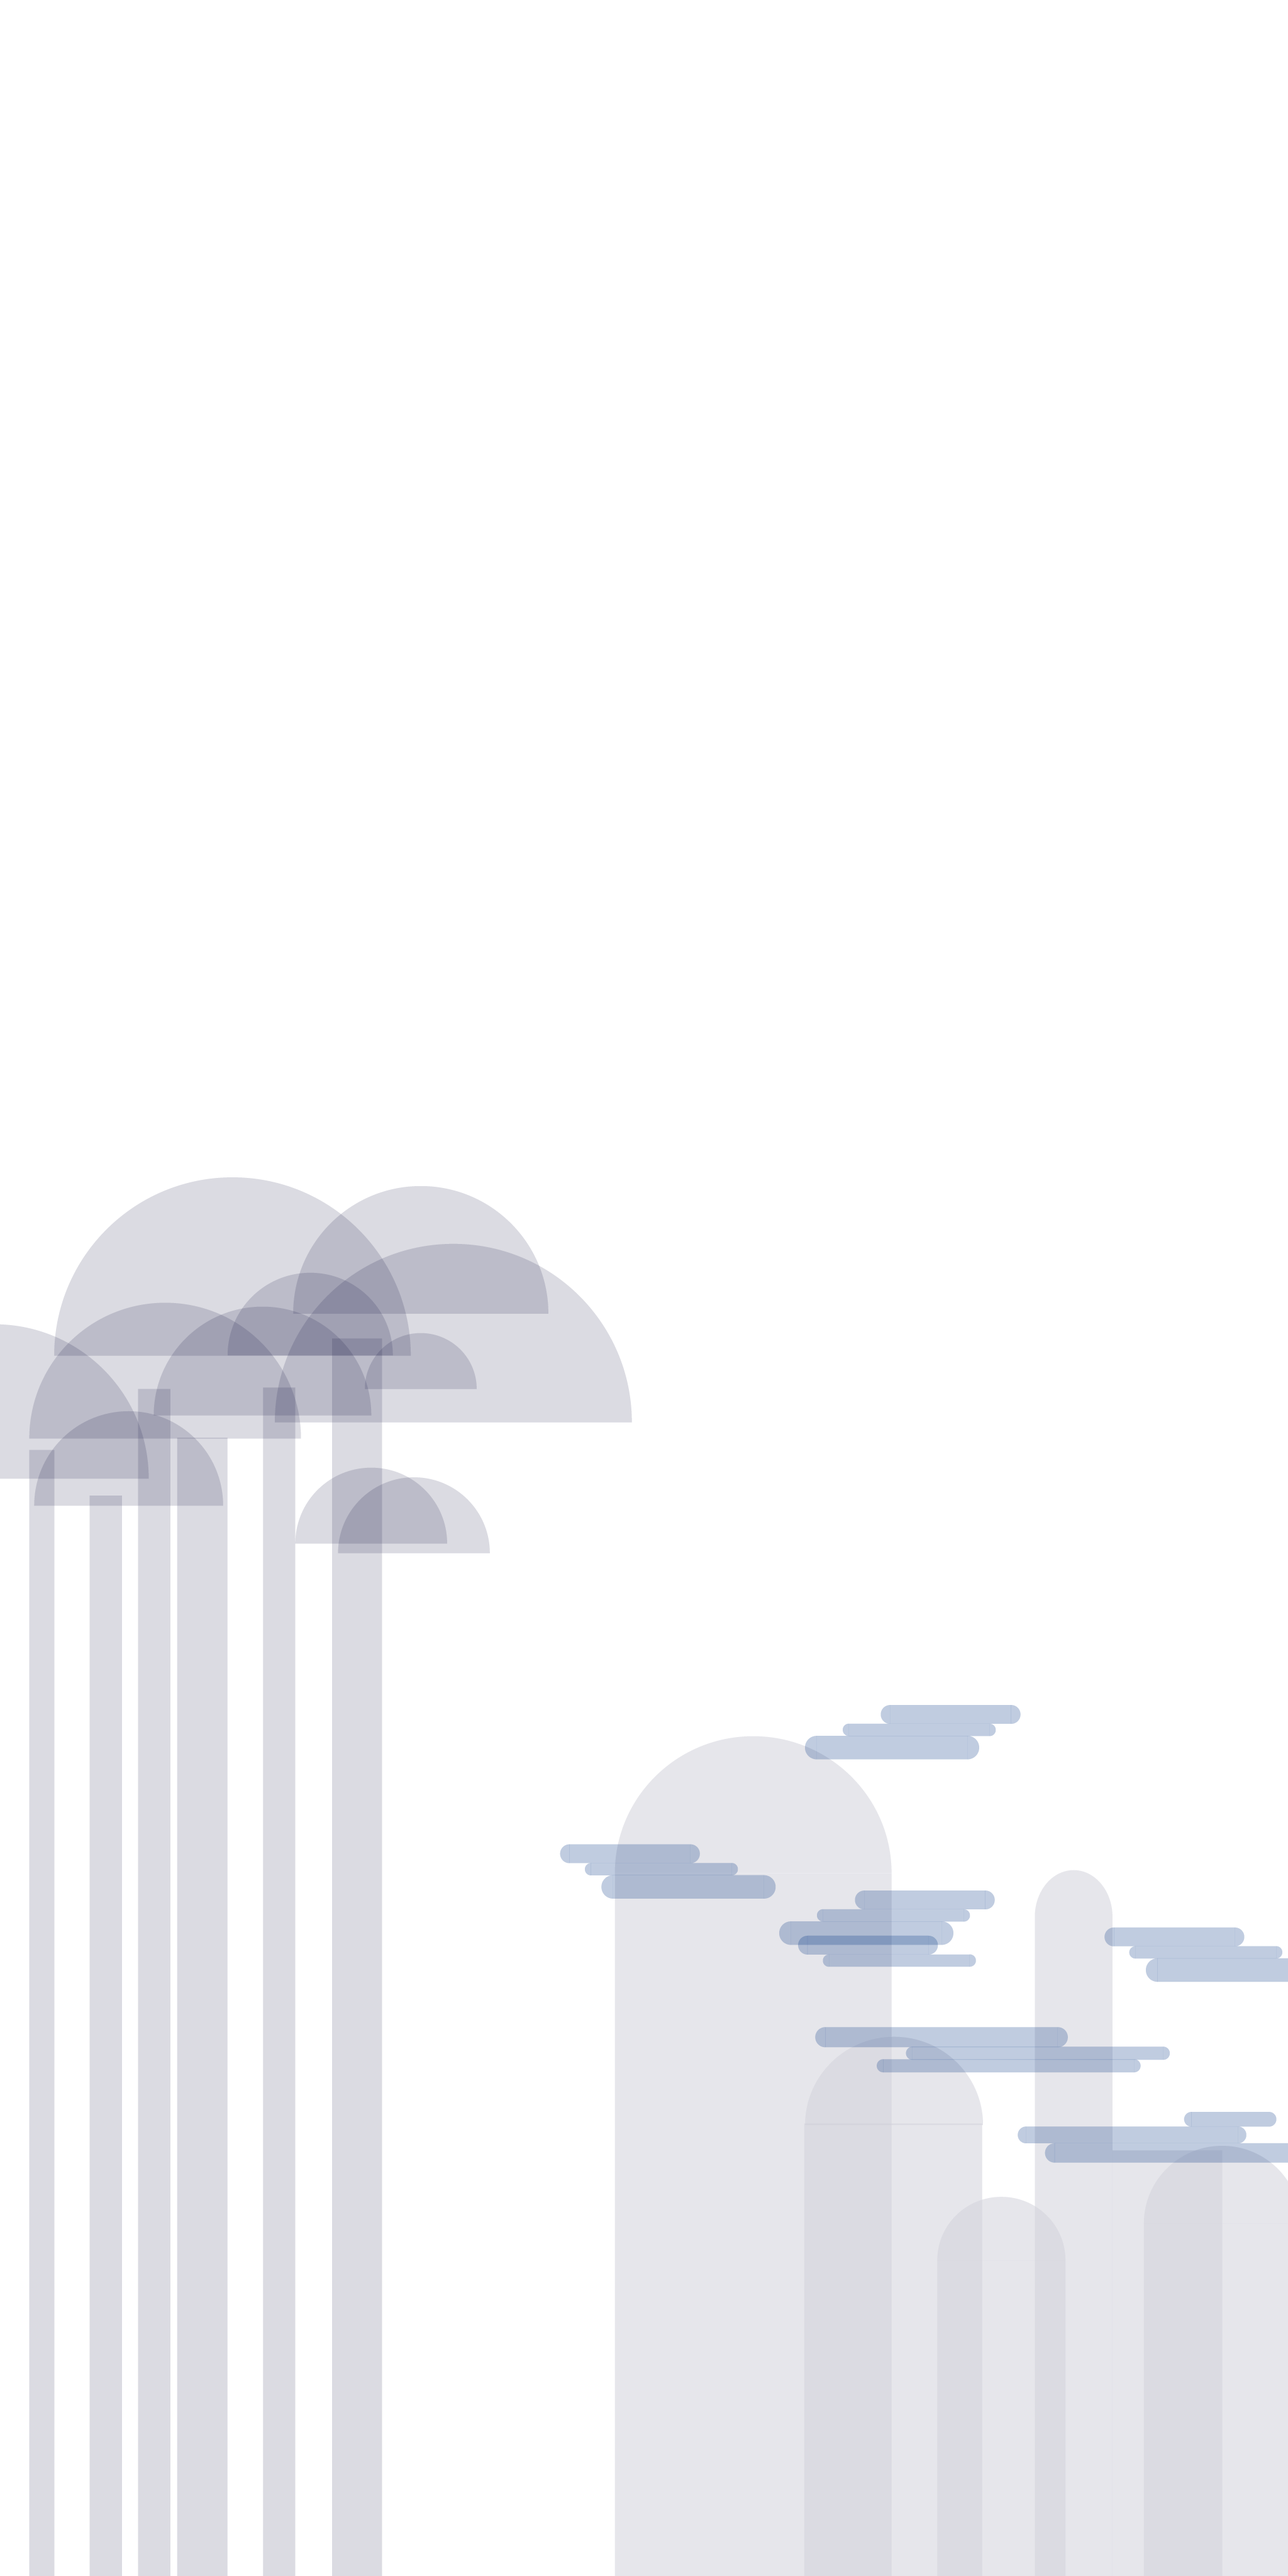
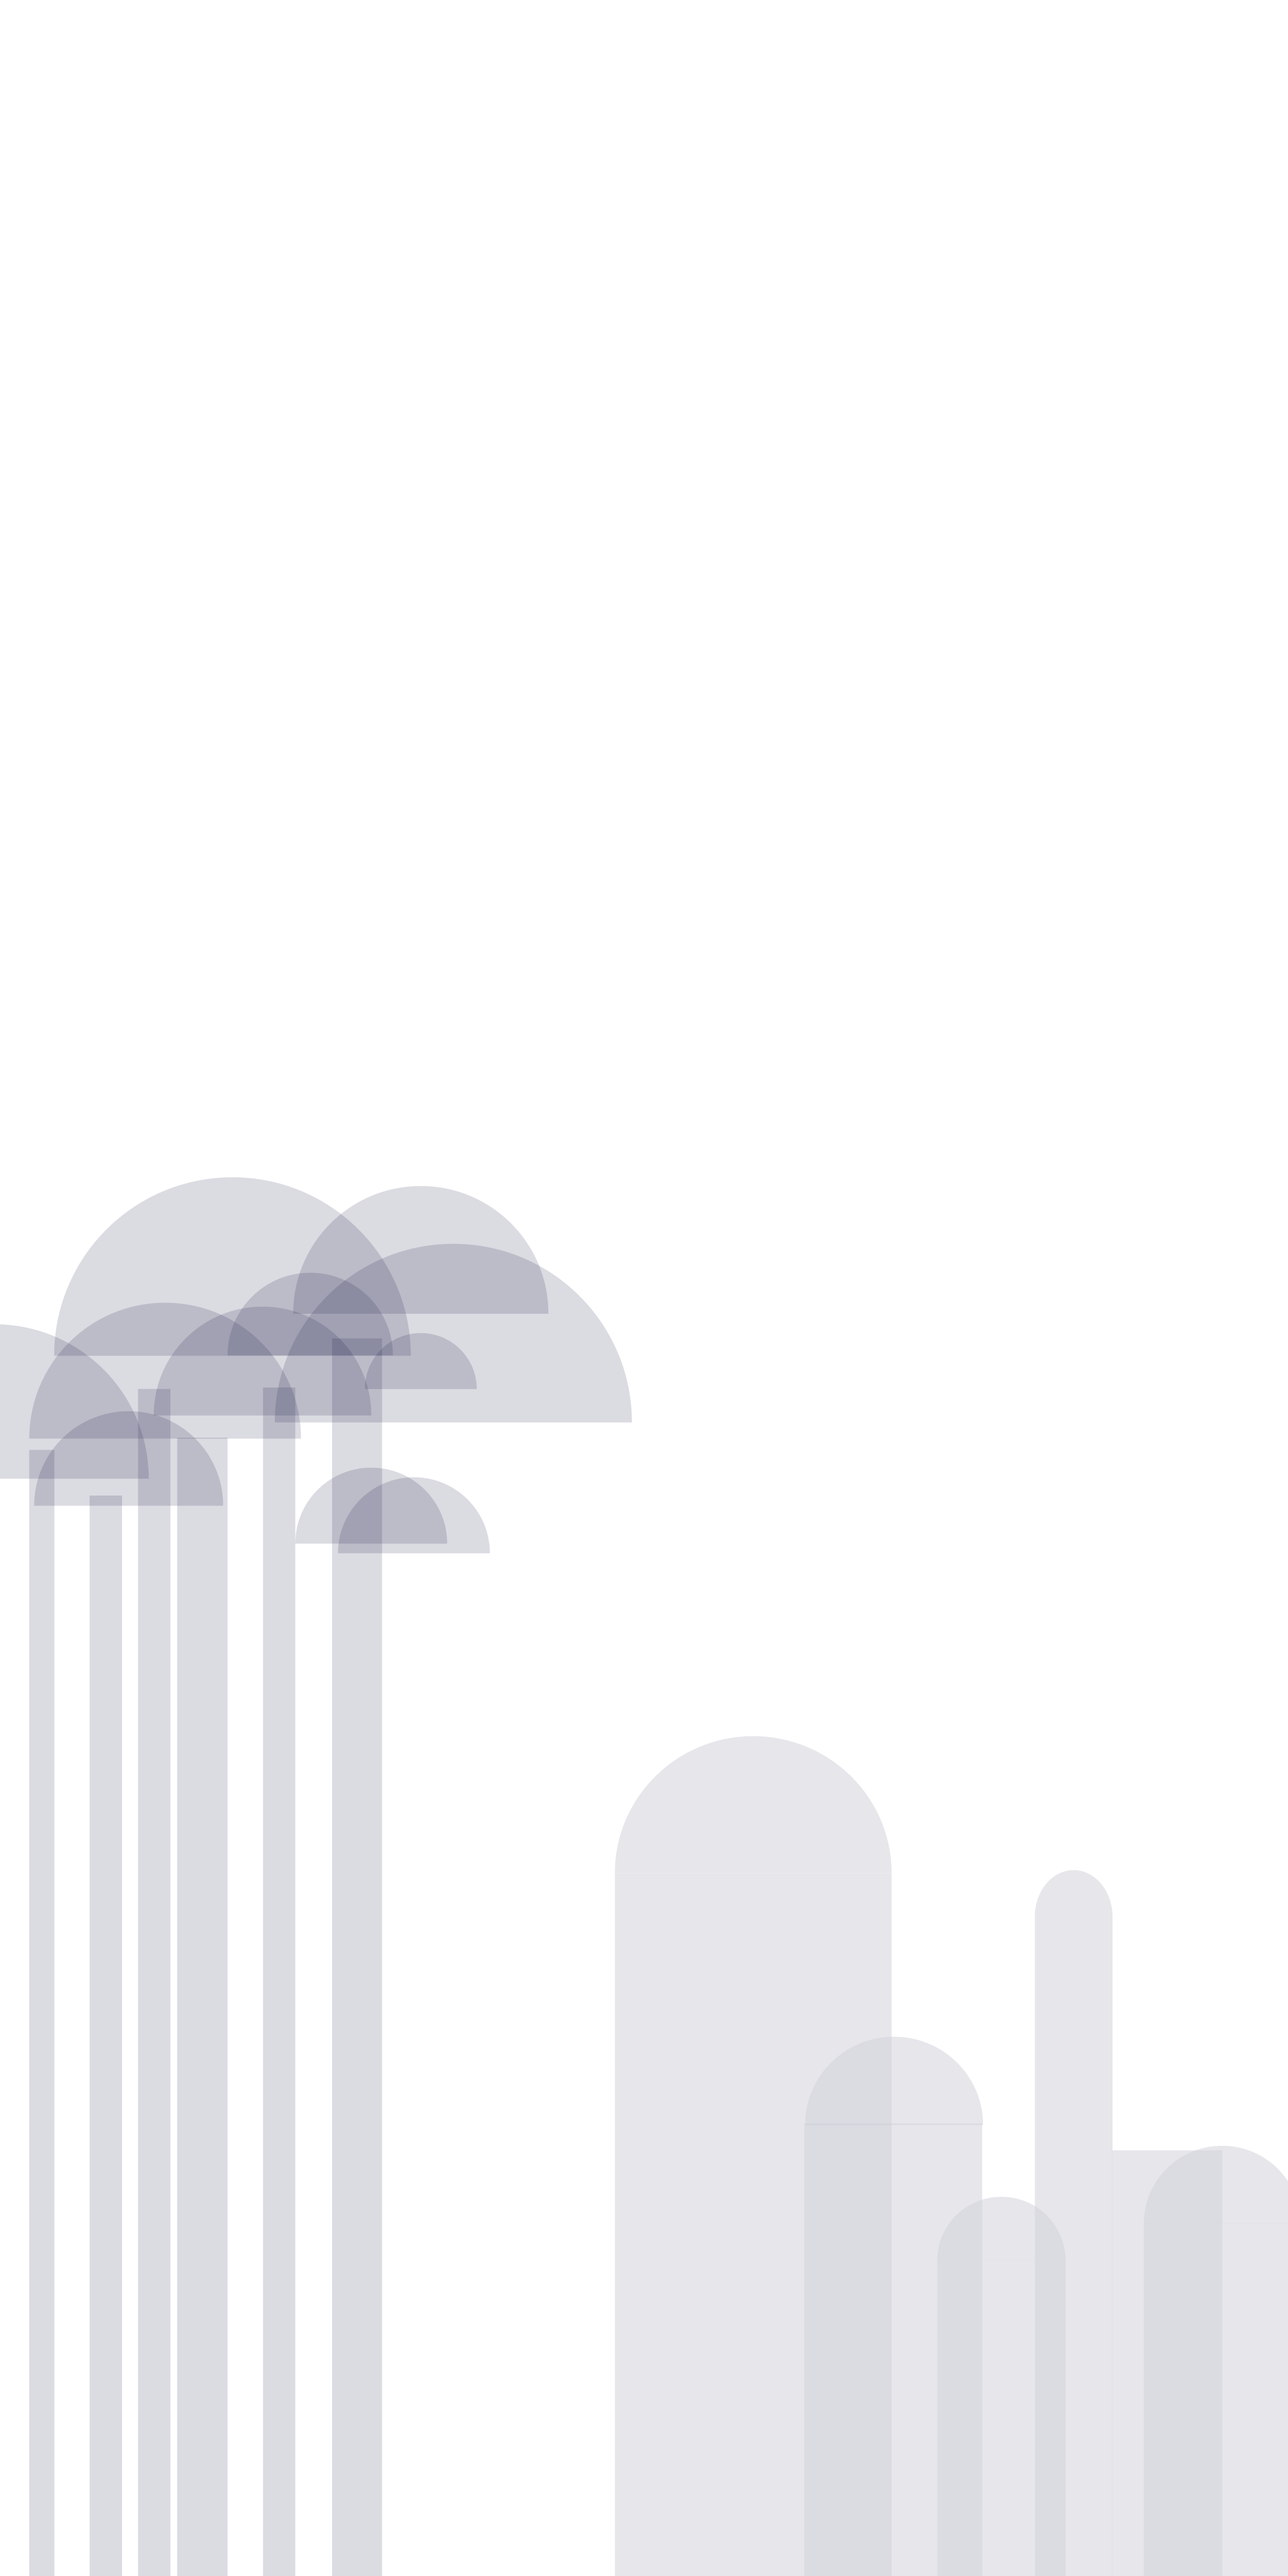
Transition

Changed region(s): [[0.4375, 0.7188, 1.0, 0.8438], [0.625, 0.6562, 0.7812, 0.6875]]

diff --git a/index.js b/index.js
@@ -14,12 +14,12 @@ var fragment = Bard.Fragment.build("StartFragment", {
     /**
      * SOUNDS
      */
-    var forest = this.soundManager.load("forest", "./examples/sounds/forest_ambiance.mp3");
-    var rocketLaunch = this.soundManager.load("forest", "./examples/sounds/rocket_launch_start.mp3");
-    forest.on("load", () => {
-      console.log("Load"),
-      forest.start();
-    })
+    // var forest = this.soundManager.load("forest", "./examples/sounds/forest_ambiance.mp3");
+    // var rocketLaunch = this.soundManager.load("forest", "./examples/sounds/rocket_launch_start.mp3");
+    // forest.on("load", () => {
+    //   console.log("Load"),
+    //   forest.start();
+    // })
 
     /**
      * ELEMENTS
@@ -42,6 +42,8 @@ var fragment = Bard.Fragment.build("StartFragment", {
     );
 
     
+
+    
     var text = this.addElement(
       new Bard.TextElement({
         nodes: [
@@ -54,10 +56,23 @@ var fragment = Bard.Fragment.build("StartFragment", {
         color: '#ffffff'
       })
     );
+    this.planes = []
 
     this.plane2 = this.addElement(new Bard.PlaneElement({imgUrls : ['./src/assets/scene1-plan3.png'], alpha: true, z:-20}));
+    this.planes.push(this.plane2)
     this.plane3 = this.addElement(new Bard.PlaneElement({imgUrls : ['./src/assets/scene1-plan2.png'], alpha: true, z:-5}));
+    this.planes.push(this.plane3)
     this.plane = this.addElement(new Bard.PlaneElement({imgUrls : ['./src/assets/scene1-plan1.png'], alpha: true, z:0}));
+    this.planes.push(this.plane)
+
+    this.clouds = []
+
+    for (let i = 1; i < 5; i++) {
+      let cloud = this.addElement(new Bard.PlaneElement({imgUrls : ['./src/assets/nuage'+i+'.png'], alpha: true, z: -6*(i)}));
+      cloud.x = (Math.random()*60 ) -30
+      this.clouds.push(cloud)
+      this.planes.push(cloud)
+    }
 
     /**
      * ACTIONS
@@ -69,13 +84,72 @@ var fragment = Bard.Fragment.build("StartFragment", {
           var easeTime = Bard.Easing.easeInQeight(advancement)
           this.rocket.mesh.position.x = (Math.sin(easeTime) * 30.)
           this.rocket.mesh.position.y = easeTime * 200.
- 
-          this.book.scene.camera.rotation.x = Math.cos(time*(Math.PI*100))/100
-          this.book.scene.camera.rotation.y = Math.cos(time*(Math.PI*100))/200
+          this.rocket.mesh.rotation.z = -(Math.sin(easeTime))
+          
+          // this.book.scene.camera.rotation.x = Math.cos(time*(Math.PI*100))/100
+          // this.book.scene.camera.rotation.y = Math.cos(time*(Math.PI*100))/200
+          
+        },
+        onFinish: () => {
+          this.fragmentTransitionOut()
         }
       }))
-      rocketLaunch.start();
+     
     })
+
+    this.addAction("transitionOut", (e) => {
+     for (let i = 0; i < this.planes.length; i++) {
+     
+      this.planes[i].anims.push(new Bard.Animation({
+        duration: 2000,
+        onProgress: (advancement, time) => {
+          var easeTime = Bard.Easing.easeInQeight(advancement)
+          // this.planes[i].mesh.position.x = ((advancement*(i+1))*80)+(this.book.scene.camera.top/2.)
+          this.planes[i].mesh.scale.x = ((easeTime*(i+1))*(100+(20*i)))+this.planes[i].width
+          this.planes[i].mesh.scale.y = ((easeTime*(i+1))*(100+(20*i)))+this.planes[i].height
+
+          if(advancement > 0.5) {
+            this.planes[i].mesh.material.uniforms.opacity.value = 1-((advancement-0.5)*2.)
+          }
+        },
+        onFinish:() => {
+          this.fragmentTransitionIn()
+        }
+      }))
+      }
+    })
+
+    this.planets = []
+
+
+    for (let i = 1; i < 25; i++) {
+      let planet = this.addElement(new Bard.PlaneElement({imgUrls : ['./src/assets/planets/planete'+i+'.png'], alpha: true, z: -6*(i), opacity:"0."}));
+      this.planets.push(planet)
+      
+    }
+
+    this.addAction("transitionIn", (e) => {
+      for (let i = 0; i < this.planets.length; i++) {
+      
+        setTimeout(()=> {
+          this.planets[i].anims.push(new Bard.Animation({
+            duration: 1000,
+            onProgress: (advancement, time) => {
+              var easeTime = Bard.Easing.easeInQeight(advancement)
+
+              this.planets[i].mesh.scale.set(this.planets[i].width+(50-(50*easeTime)),this.planets[i].height+(50-(50*easeTime)),1 )
+                this.planets[i].mesh.material.uniforms.opacity.value = ((advancement))
+             
+            },
+            onFinish:() => {
+            }
+          }))
+        }, i*20)
+       
+       }
+     })
+ 
+    
 
     this.addAction("next",  e => text.next())
 
@@ -87,6 +161,23 @@ var fragment = Bard.Fragment.build("StartFragment", {
     this.afterStart();  
   },
 
+  fragmentTransitionOut: function() {
+    if(!this.fragmentEnd) {
+      this.fragmentEnd = true
+      
+      this.executeAction('transitionOut')
+
+    }
+  },
+
+  fragmentTransitionIn: function() {
+    if(!this.fragmentNew) {
+      this.fragmentNew = true
+
+      this.executeAction('transitionIn')
+    }
+  },
+
   render: function() {
     this.beforeRender();
     
@@ -96,6 +187,13 @@ var fragment = Bard.Fragment.build("StartFragment", {
       }
     }
 
+    if(this.clouds.length ) {
+      for (let i = 0; i < this.clouds.length; i++) {
+        if(this.clouds[i].mesh) {
+          this.clouds[i].mesh.position.x = (Math.sin(this.clock.elapsed/(2000.*((i*0.5)+1)))*40)+this.clouds[i].x
+        }
+      }
+    }
     this.afterRender();
   },
 

diff --git a/src/elements/Plane/Plane.js b/src/elements/Plane/Plane.js
@@ -16,6 +16,7 @@ let frag = `
 uniform sampler2D texture;
 uniform vec2 textureRes;
 uniform vec2 resolution;
+uniform float opacity; 
 
  varying vec2 vUv;
  
@@ -30,7 +31,7 @@ uniform vec2 resolution;
      }
 
      
-     gl_FragColor = color;
+     gl_FragColor = vec4(color.rgb, color.a*opacity);
  }`
  
 class Plane extends Mesh {
@@ -40,10 +41,15 @@ class Plane extends Mesh {
         this.imgUrls = params.imgUrls
         this.videoUrls = params.videoUrls
         this.alpha = params.alpha
+        this.z = params.z
+        this.position = {
+            x: null,
+            y: null,
+            z: params.z
+        }
 
-        this.on("load", ()=>{
-            this.mesh.position.z = params.z
-        })
+      
+       
         
         this.geometry = new THREE.PlaneBufferGeometry(1,1,1)
 		this.material = new THREE.ShaderMaterial({
@@ -64,11 +70,25 @@ class Plane extends Mesh {
                         x:window.innerWidth,
                         y: window.innerHeight,
                     }
+                },
+                opacity : {
+                    type:'f',
+                    value : null
                 }
             },
-            transparent: this.alpha
+            
+            transparent: this.alpha,
+            depthTest:false,
+            depthWrite: false,
         })
         
+        if(params.opacity) {
+            console.log(params.opacity)
+            
+            this.material.uniforms.opacity.value = params.opacity 
+        } else {
+            this.material.uniforms.opacity.value = 1.
+        }
       
         if(this.imgUrls) {
             this.loadTextureFromImg()
@@ -95,13 +115,10 @@ class Plane extends Mesh {
 	 * Raf function. Can be override in all elements extending Mesh.
 	 * @param clock (Clock) : The general clock of fragment   
 	 */
-	render(clock){
 
-    }
-
-    createMesh(){
+    createMesh(params){
         this.mesh = new THREE.Mesh(this.geometry, this.material)
-        
+        this.mesh.position.z = this.z
         this.mesh.name = "plane";
     }
 
@@ -124,7 +141,7 @@ class Plane extends Mesh {
             this.createMesh();
             this.texture = texture
             this.mesh.material.uniforms.texture.value = this.texture
-            console.log(this.mesh)
+
             this.mesh.material.uniforms.textureRes.value = {
                 x: this.texture.image.width,
                 y: this.texture.image.height
@@ -132,24 +149,26 @@ class Plane extends Mesh {
             this.material.uniforms.needsUpdate = true;
             this.loaded = true;
             this.display();
-            this.fitToScreen();
+            
+            let imgRatio = this.texture.image.width/this.texture.image.height
+            this.fitToScreen(imgRatio);
         })    
     }
     
-    fitToScreen() {
+    fitToScreen(imgRatio) {
         let camera = this.fragment.book.scene.camera
         var vFOV = camera.fov * Math.PI / 180;
         // Get the visible height 
-        console.log(camera.top)
         let distanceOfPlaneFromCamera = camera.position.z - this.mesh.position.z
-        var height =  camera.top  +8;
+        this.height =  camera.top  +8;
 
         // If we want a width that follows the aspect ratio of the camera, then get the aspect ratio and multiply by the height.
         var aspect = window.innerWidth / window.innerHeight;
-        var width = height * aspect;
-        height = width * 2
-        this.mesh.scale.set(width, height, 1)
-        this.mesh.position.y = (height/2)-8 
+        this.width = this.height * aspect;
+        this.height = this.width / imgRatio
+        this.mesh.scale.set(this.width, this.height, 1)
+        this.position.y = (this.height/2)-8 
+        this.mesh.position.y = (this.height/2)-8 
     }
 }
 

diff --git a/src/Scene.js b/src/Scene.js
@@ -49,6 +49,7 @@ class Scene {
 
 		if( this.book.debug ){
 			this.controls = new OrbitControls( this.camera );
+			this.controls.rotateSpeed = 0.005
 			this.controls.update();
 		}
 
@@ -83,8 +84,7 @@ class Scene {
 	 * Call the renderer
 	 */
 	render(){
-		// this.renderer.sortObjects = false
-		// console.log(this.threeScene, this.camera)
+		this.renderer.sortObjects = false
 		this.renderer.render(this.threeScene, this.camera);
 	}
 

diff --git a/src/utils/Animation.js b/src/utils/Animation.js
@@ -34,10 +34,10 @@ class Animation {
 			this.isStart = true; 
 			if( this.onStart) this.onStart();
 		}
-
+		
 		this.current += delta;
 		this.advancement = this.timingFunction(Math.min(1., this.current / this.duration))
-
+	
 		var value = this.from + (this.to - this.from) * this.advancement; 
 
 		if( this.onProgress) this.onProgress(this.advancement, value);

diff --git a/src/elements/Text.js b/src/elements/Text.js
@@ -99,6 +99,7 @@ class Text extends Element {
 			(function(rank){
 				self.speechRecognition.addCommand(self.current.speechs[rank].command, (e) => {
 					self.fragment.executeAction(self.current.speechs[rank].action)
+					
 				});
 			})(i)
 		}
